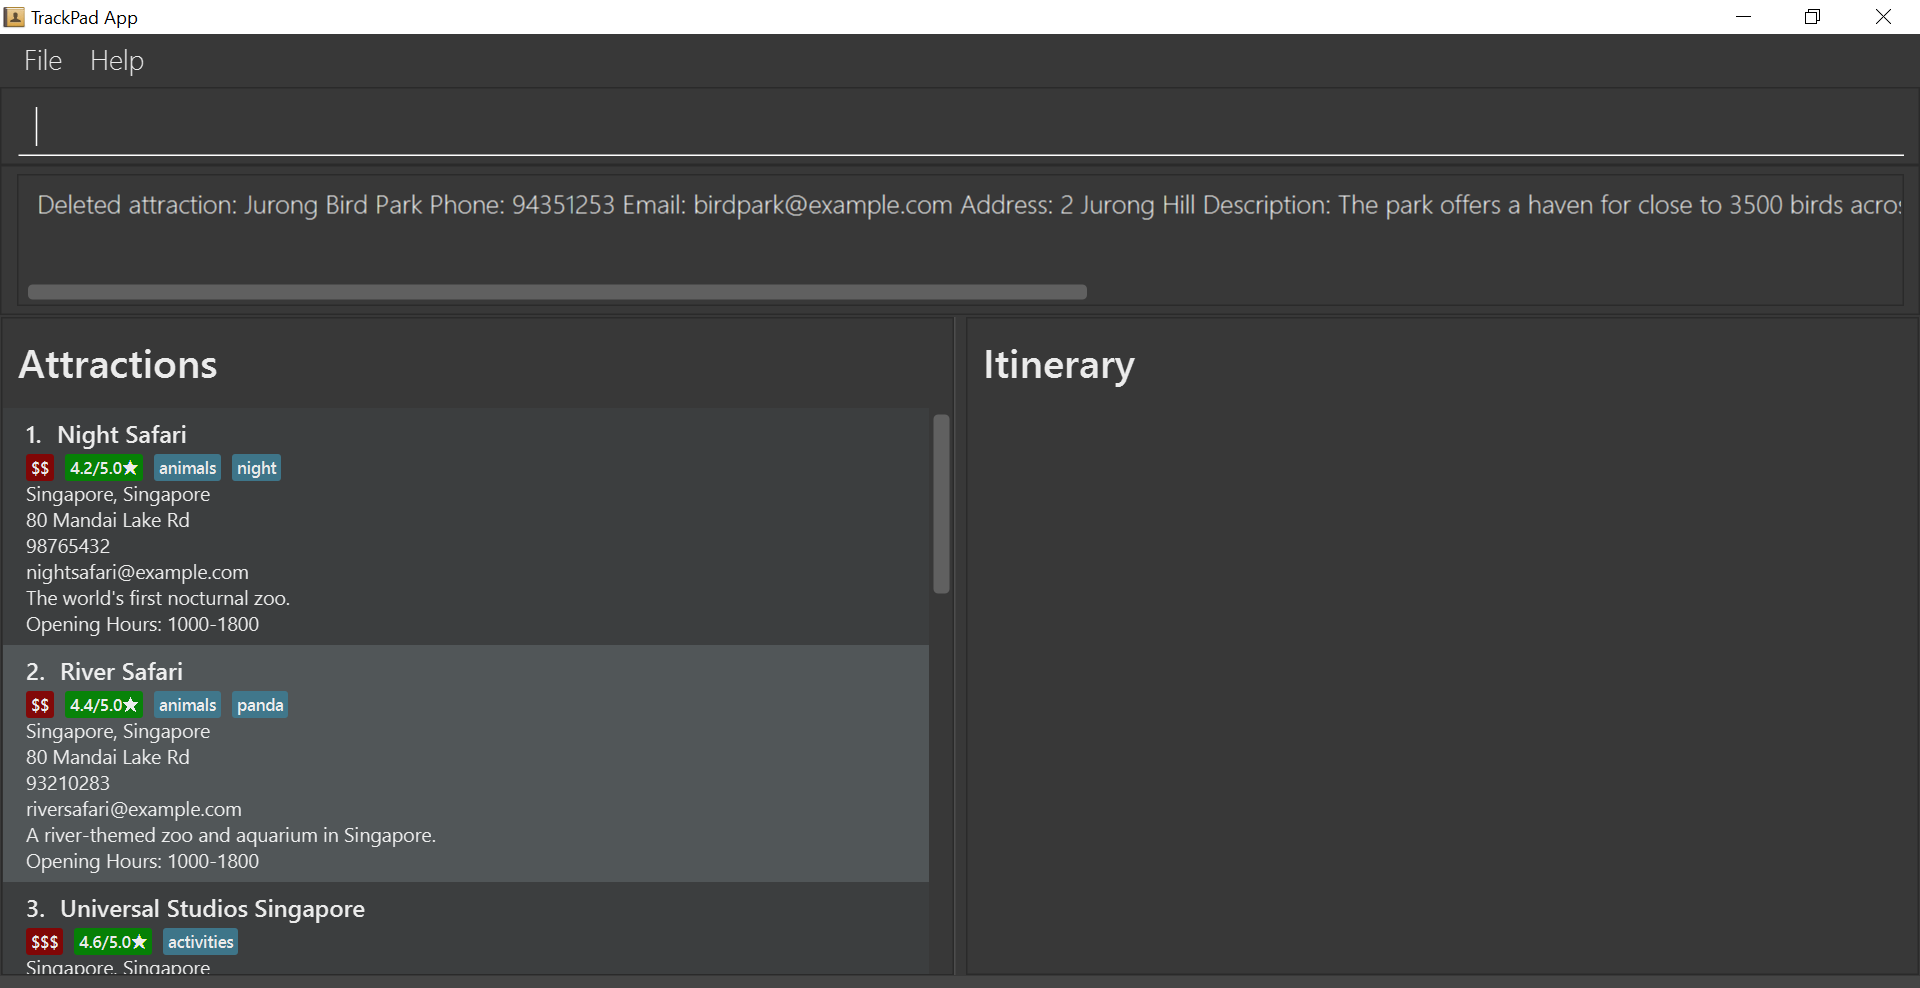
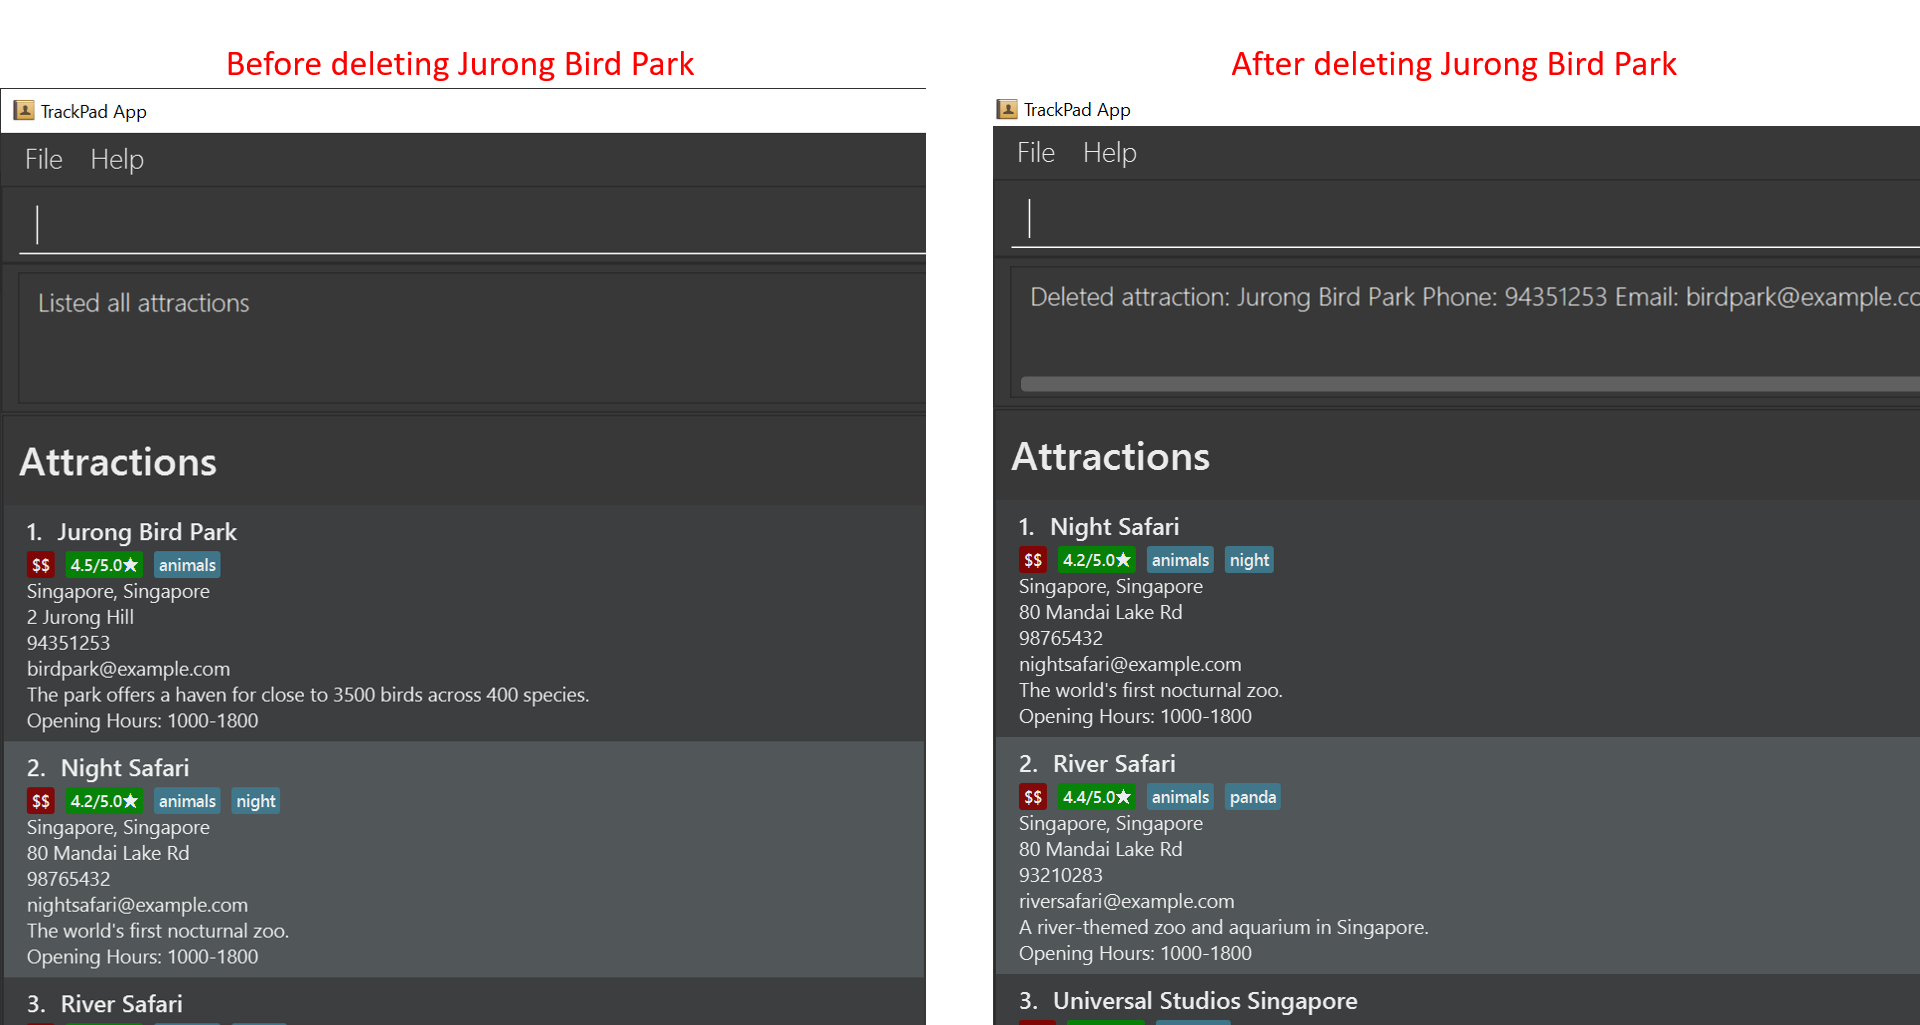
Update images and captions for ug

diff --git a/docs/UserGuide.md b/docs/UserGuide.md
@@ -29,7 +29,7 @@ and we welcome anyone who loves travelling to try out our app.
 1. Double-click the file to start the app. The GUI similar to the below should appear in a few seconds. 
     Note how the app contains some sample data.<br><br>
    ![Ui](images/Ui.PNG)
-   <div align="center"><sup style="font-size:100%"><i>Figure 1. The Ui of TrackPad</i></sup></div><br>
+   <div align="center"><sup style="font-size:100%"><i>Figure 1. The Ui of TrackPad</i></sup></div>
 
 1. Type the command in the command box and press Enter to execute it. 
     e.g. typing **`help`** and pressing Enter will open the help window.<br>
@@ -82,7 +82,7 @@ and we welcome anyone who loves travelling to try out our app.
 Shows a message explaining how to access the help page.
 
 ![help message](images/helpMessage.png)
-<div align="center"><sup style="font-size:100%"><i>Figure 2. The help window of TrackPad</i></sup></div><br>
+<div align="center"><sup style="font-size:100%"><i>Figure 2. The help window of TrackPad</i></sup></div>
 
 Format: `help`
 
@@ -127,7 +127,7 @@ Examples:
 * `add-attraction n/Singapore Zoo p/62693411 t/hot a/80 Mandai Lake Rd, 729826 l/Singapore, Singapore e/singaporezoo@gmail.com 
 op/1000-1800 pr/MEDIUM r/4.6 v/FALSE`<br><br>
 ![add_attraction_result](images/addAttractionResult.PNG)
-<div align="center"><sup style="font-size:100%"><i>Figure 3. The result of 'add-attraction'</i></sup></div><br>
+<div align="center"><sup style="font-size:100%"><i>Figure 3. The result of 'add-attraction'</i></sup></div>
 
 #### 3.3.2 Listing all tourist attractions : `list-attraction`
 
@@ -149,15 +149,13 @@ Format: `edit-attraction INDEX [n/ATTRACTION_NAME] [l/LOCATION] [d/DESCRIPTION] 
 * Field entries are the same as the `add-attraction` command.
 * Any field can be changed by inputting its corresponding prefix in the command.
     * Example: `add-attraction n/MBS l/Singapore, Singapore r/4.3` in an attraction list followed by 
-    `edit-attraction 1 r/4.6` changes the rating of the 1st attraction in the list from `4.3` to `4.6`.<br><br>
-    ![before_editing_attraction](images/editAttractionBefore.PNG)
-    <div align="center"><sup style="font-size:100%"><i>Figure 4. MBS attraction before editing</i></sup></div><br>
+    `edit-attraction 1 r/4.6` changes the rating of the 1st attraction in the list from `4.3` to `4.6`.<br><br>        
     ![result_of_editing_existing_fields](images/editAttractionResult1.PNG)
-    <div align="center"><sup style="font-size:100%"><i>Figure 5. The result of 'edit-attraction 1 r/4.6'</i></sup></div><br>
+    <div align="center"><sup style="font-size:100%"><i>Figure 4. The result of 'edit-attraction 1 r/4.6'</i></sup></div><br>
 * New fields can be added to current attractions.
     * Example: `edit-attraction 1 pr/MEDIUM t/hotel` adds the price range of MBS as `MEDIUM` and adds an `hotel` tag.<br><br>
     ![result_of_editing_new_fields](images/editAttractionResult2.PNG)
-    <div align="center"><sup style="font-size:100%"><i>Figure 6. The result of 'edit-attraction 1 pr/MEDIUM t/hotel'</i></sup></div><br>
+    <div align="center"><sup style="font-size:100%"><i>Figure 5. The result of 'edit-attraction 1 pr/MEDIUM t/hotel'</i></sup></div>
 
 <div markdown="span" class="alert alert-danger">:warning: **Warning:**
 Editing the tag of an attraction does not add on to its existing tags. Rather, it replaces all existing tags with the 
@@ -178,7 +176,7 @@ Format: `markVisited-attraction INDEX`
 Examples:
 * `markVisited-attraction 2` marks the 2nd attraction in the TrackPad as visited.
 ![result for 'markVisited-attraction'](images/markVisitedAttraction.PNG)
-  <div align="center"><sup style="font-size:100%"><i>Figure 7. The result of 'markVisited-attraction 2</i></sup></div>
+  <div align="center"><sup style="font-size:100%"><i>Figure 6. The result of 'markVisited-attraction 2</i></sup></div>
 * Typing `markVisited-attraction 2` again will show that the 2nd attraction in the TrackPad is visited.
 
 #### 3.3.5 Finding a tourist attraction: `find-attraction`
@@ -194,8 +192,8 @@ Format: `find-attraction KEYWORD [MORE_KEYWORDS]`
 
 Examples:
 * `find-attraction jurong` returns `Jurong Bird Park` and `Snow City`<br><br>
-  ![result for 'find-attraction'](images/findJurongResult.PNG)
-  <div align="center"><sup style="font-size:100%"><i>Figure 7. The result of 'find-attraction jurong'</i></sup></div><br>
+![result for 'find-attraction'](images/findJurongResult.PNG)
+<div align="center"><sup style="font-size:100%"><i>Figure 7. The result of 'find-attraction jurong'</i></sup></div>
   
 #### 3.3.6 Deleting a tourist attraction : `delete-attraction`
 
@@ -209,10 +207,8 @@ Format: `delete-attraction INDEX`
 
 Examples:
 * `list-attraction` followed by `delete-attraction 1` deletes the 1st attraction in the TrackPad.<br><br>
-![result for `list-attraction`](images/deleteAttractionBefore.PNG)
-<text align="center"><sup style="font-size:100%"><i>Figure 8. Before 'delete-attraction 1' </i></sup></text><br>
-![result for `find-attraction`](images/deleteAttractionResult.PNG)
-<sup style="font-size:100%"><i><text align="center">Figure 9. The result of 'delete-attraction 1'</text></i></sup><br>
+![result for `delete-attraction`](images/deleteAttractionResult.PNG)
+<div align="center"><sup style="font-size:100%"><i>Figure 8. The result of 'delete-attraction 1'</i></sup></div>
 * `find-attraction animals` followed by `delete 2` deletes the 2nd tourist attraction in the results of the `find-attraction` command.
   
 #### 3.3.7 Clearing all attractions : `clear-attraction`
